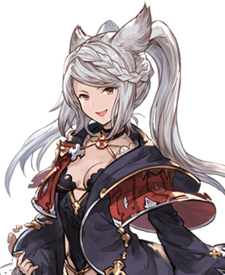
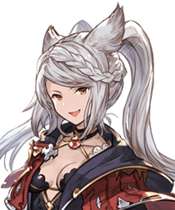
Update: Apply cache buster to index.css in index.html, add default sky-blue gradient background to card image wrappers, and crop Fraux and Beatrix closer to match others' face scale

diff --git a/index.html b/index.html
@@ -5,7 +5,7 @@
   <meta name="viewport" content="width=device-width, initial-scale=1.0">
   <title>Granblue Fantasy: Relink Complete Wiki Guide</title>
   <meta name="description" content="그랑블루 판타지 리링크 오리지널 스토리 엔딩 직후부터 확장팩 엔드리스 라그나로크까지 포함하는 전 캐릭터, 무기, 진 세팅 통합 공략 웹 도감입니다.">
-  <link rel="stylesheet" href="index.css">
+  <link rel="stylesheet" href="index.css?v=4">
   <script src="data.js" defer></script>
   <script src="app.js" defer></script>
 </head>

diff --git a/index.css b/index.css
@@ -41,6 +41,10 @@ body.dark-theme {
   --badge-text: #00d2ff;
 }
 
+body.dark-theme .char-card-img-wrapper {
+  background: linear-gradient(135deg, #0f172a 0%, #1e293b 100%);
+}
+
 * {
   box-sizing: border-box;
   margin: 0;
@@ -232,7 +236,7 @@ header {
   overflow: hidden;
   position: relative;
   border-right: 1px solid var(--glass-border);
-  background: rgba(226, 232, 240, 0.05);
+  background: linear-gradient(135deg, #e0f2fe 0%, #bae6fd 100%);
 }
 
 .char-card-img {
